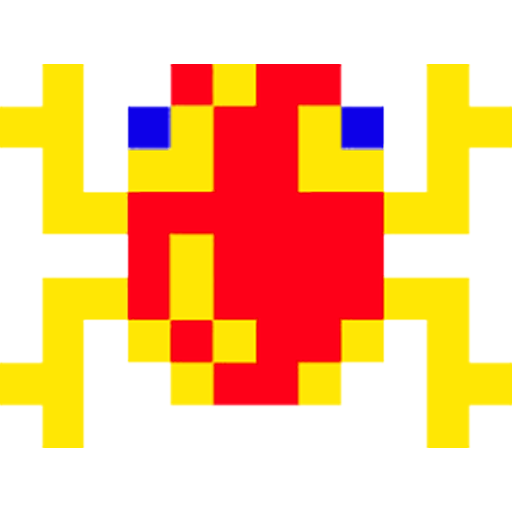
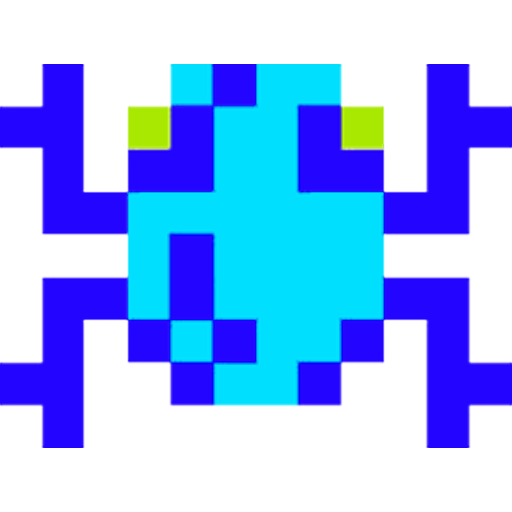
new deadFrog img

diff --git a/client/assets/js/images.js b/client/assets/js/images.js
@@ -1,9 +1,10 @@
 const frogs = [new Image(), new Image()];
 const flyImg = new Image();
-const deadFrog = new Image();
+const deadFrogs = [new Image(), new Image()];
 
 
 frogs[0].src = 'assets/img/frog0.png';
 frogs[1].src = 'assets/img/frog1.png';
 flyImg.src = 'assets/img/fly.gif';
-deadFrog.src = 'assets/img/deadFrog.png';
+deadFrogs[0].src = 'assets/img/deadFrog0.png';
+deadFrogs[1].src = 'assets/img/deadFrog1.png';

diff --git a/client/assets/js/index.js b/client/assets/js/index.js
@@ -167,7 +167,7 @@ drawGame = () => {
 
   players.forEach((player, i) => {
     gctx.drawImage(frogs[i], player.posX, player.posY, frogWidth, frogHeight);
-    gctx.drawImage(deadFrog, player.deadX, player.deadY, frogWidth, frogHeight);
+    gctx.drawImage(deadFrogs[i], player.deadX, player.deadY, frogWidth, frogHeight);
   });
   gctx.drawImage(flyImg, fly.x, fly.y, frogWidth, frogHeight);
 };
